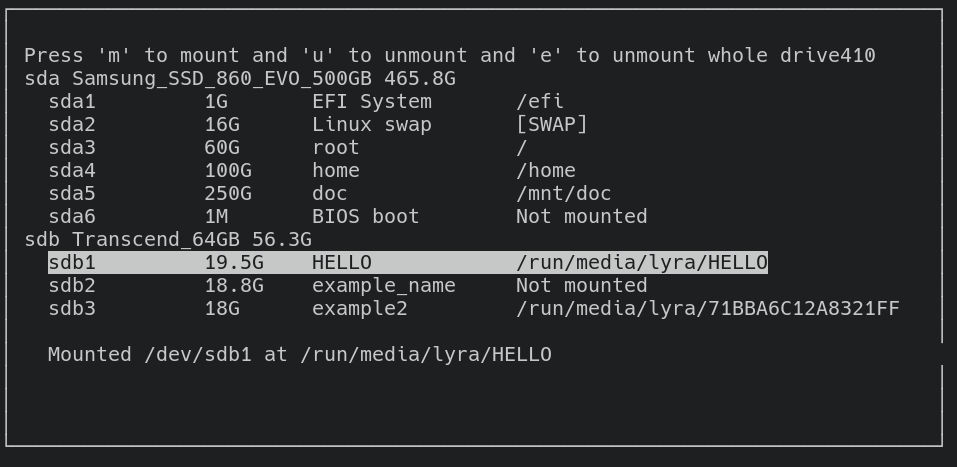
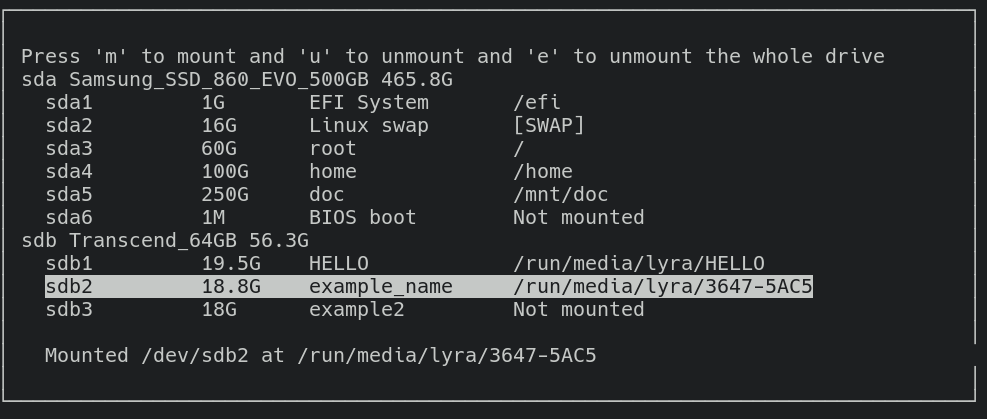
fix help string

Changed region(s): [[0.0, 0.0, 1.0, 0.9618]]

diff --git a/menu.py b/menu.py
@@ -58,7 +58,7 @@ class ChoosePartition:
         self.screen.border(0)
         self.screen.addstr(
             2, 2,
-            "Press 'm' to mount and 'u' to unmount and 'e' to unmount whole drive" + str(x))
+            "Press 'm' to mount and 'u' to unmount and 'e' to unmount the whole drive")
 
         partn = 0
         i = 0
